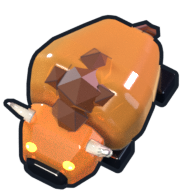
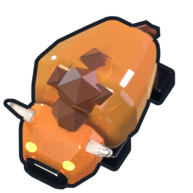
feat: slim the bison's body to 0.9 of its width
Its mane clumps and legs move in to match; the head and horns stay.

Changed region(s): [[0.4663, 0.1865, 0.9326, 0.9016], [0.1244, 0.0622, 0.6218, 0.5596], [0.1244, 0.6218, 0.1554, 0.6528]]

diff --git a/dev-samples/3d-stage1/build-heroic.py b/dev-samples/3d-stage1/build-heroic.py
@@ -314,18 +314,21 @@ def bison(x, y):
                     rim=(1.0, 0.95, 0.8), rim_strength=1.5)
     eye = material('Bison ember eyes', (1.0, 0.2, 0.05), emission=(1.0, 0.25, 0.05),
                    strength=25.0)
-    # Massive shoulder hump, tapering rump; head lowered for a charge.
+    # Massive shoulder hump, tapering rump; head lowered for a charge. The
+    # body is built 0.9 as wide as at first (`slim`), so it is not too fat.
+    slim = 0.9
     soften(loft('Bison torso', x, y,
-                [(-0.42, 0.50, 0.50, 0.32), (-0.18, 0.60, 0.62, 0.42),
-                 (0.10, 0.55, 0.58, 0.36), (0.45, 0.42, 0.47, 0.27),
-                 (0.70, 0.30, 0.42, 0.20)], hide), 0.09)
+                [(along, w * slim, z, h) for along, w, z, h in
+                 [(-0.42, 0.50, 0.50, 0.32), (-0.18, 0.60, 0.62, 0.42),
+                  (0.10, 0.55, 0.58, 0.36), (0.45, 0.42, 0.47, 0.27),
+                  (0.70, 0.30, 0.42, 0.20)]], hide), 0.09)
     # A modest shaggy hump: a few low-poly clumps over the shoulders and brow,
     # kept small so the bison does not look too strong.
     clumps = [(0, -0.28, 0.90, 0.25), (-0.22, -0.22, 0.84, 0.19), (0.22, -0.22, 0.84, 0.19),
               (0, -0.04, 0.86, 0.21), (0, -0.52, 0.76, 0.19)]
     for i, (dx, dy, z, r) in enumerate(clumps):
         bpy.ops.mesh.primitive_ico_sphere_add(subdivisions=1, radius=r,
-                                              location=(x + dx, y + dy, z),
+                                              location=(x + dx * slim, y + dy, z),
                                               rotation=(i * 0.7, i * 1.3, i * 0.4))
         clump = finish(bpy.context.object, mane, False, 'Bison mane clump')
         clump.scale = (1.0, 1.1, 0.8)
@@ -345,7 +348,7 @@ def bison(x, y):
              [0.065, 0.055, 0.04, 0.025, 0], horn, sides=10, smooth=True)
         sphere('Bison eye', (x + side * 0.20, y - 0.86, 0.50), (0.055, 0.04, 0.035), eye, 16)
         for dy in (-0.32, 0.50):
-            block('Bison hoof', (x + side * 0.40, y + dy, 0.13), (0.22, 0.28, 0.24),
+            block('Bison hoof', (x + side * 0.40 * slim, y + dy, 0.13), (0.22, 0.28, 0.24),
                   obsidian, 0.04)
     tube('Bison tail', [(x, y + 0.66, 0.55), (x + 0.06, y + 0.80, 0.48), (x + 0.10, y + 0.86, 0.30)],
          [0.05, 0.04, 0.07], mane, sides=6)

diff --git a/dev-samples/3d-stage1/README.md b/dev-samples/3d-stage1/README.md
@@ -290,7 +290,7 @@ blender --background --threads 4 --python dev-samples/3d-stage1/build-player-clo
 
 - 共通: 背後からの寒色・暖色のリムライトと、縁が淡く光る材質。色の彩度を上げ、Standard表示で発光色の白飛びを防ぐ。
 - アメーバ2種類: アメーバは空色、レアアメーバは橙色の樹脂にする（紫は毒の印象になるため変更）。膜に軽い揺らぎを付け、内部に縦長の瞳を持つ光る核と小さな気泡を追加。周囲の鈍角の円錐6つは維持する。レアアメーバの上部3つの突起は、金色に光る六角の結晶にする。
-- バイソン: 肩のこぶに暗い毛の塊を少しだけ載せ（強く見えすぎないよう5個の小さめの塊）、頭を下げた突進の姿勢にする。角は外へ張り出して上へ反り、目は赤く光る。角はキメラ `c` `C` の剣と紛らわしくないよう、付け根を中心に当初の半分の大きさにしている。黒い鼻先と蹄、短い尾を追加。
+- バイソン: 肩のこぶに暗い毛の塊を少しだけ載せ（強く見えすぎないよう5個の小さめの塊）、頭を下げた突進の姿勢にする。角は外へ張り出して上へ反り、目は赤く光る。角はキメラ `c` `C` の剣と紛らわしくないよう、付け根を中心に当初の半分の大きさにしている。黒い鼻先と蹄、短い尾を追加。太りすぎに見えないよう、胴体の幅は最初の試作の9割にし、毛の塊と脚もその分内側へ寄せる（`bison()` の `slim`）。
 - コモドドラゴン: 吻から尾まで1本の角ばった胴体にし、尾をS字に曲げる。脚は関節で曲げて横へ張り出し、光る金色の目、眉の突起、背の低い淡色の稜線を追加。爪は付けない。
 - キメラ `c`: ステージ1で剣を落とすモンスター。小さい画面でも読めるよう、基本はライオンにして細かい造作を減らす。小さめの金色の胴体に、二重の深紅のたてがみと光る目を付け、淡く光る平たい刃の剣を口に横向きにくわえる。尾は太い緑のヘビにして背中の上へ高く持ち上げ、首元を広げたコブラ風の頭、黄色く光る目、赤い舌で目立たせる。ヤギの要素は付けない。
 - 宝箱 `T`: 透明感を抑えたマホガニー色の樹脂に、金の帯・角金具・錠前とルビーを付ける。ふたを後ろへ大きく開け、中の金貨と金色の光を見せる。宝箱の表示は開錠後に限られるため、開いた姿にした。宝に擬態した敵も既存の表示判断どおり同じ画像になる。
